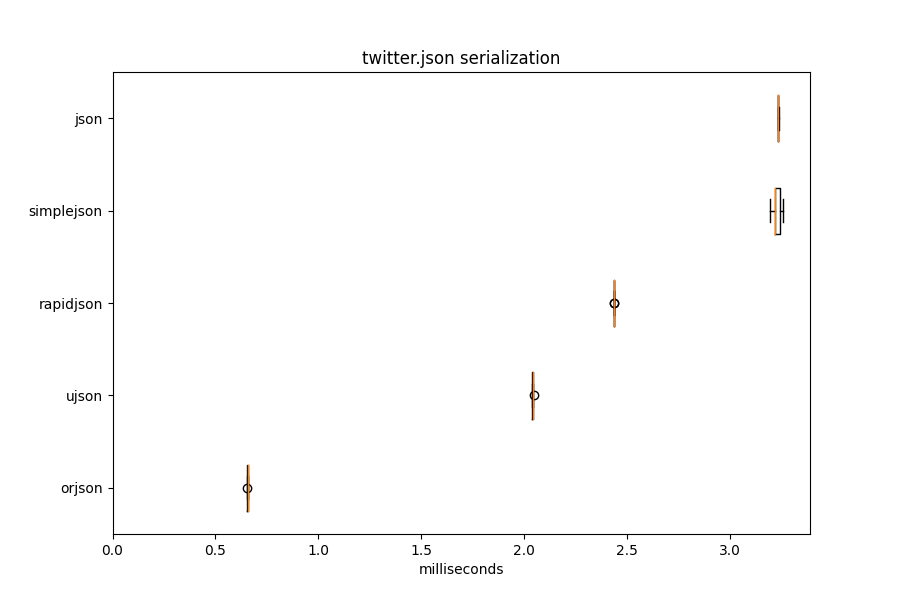
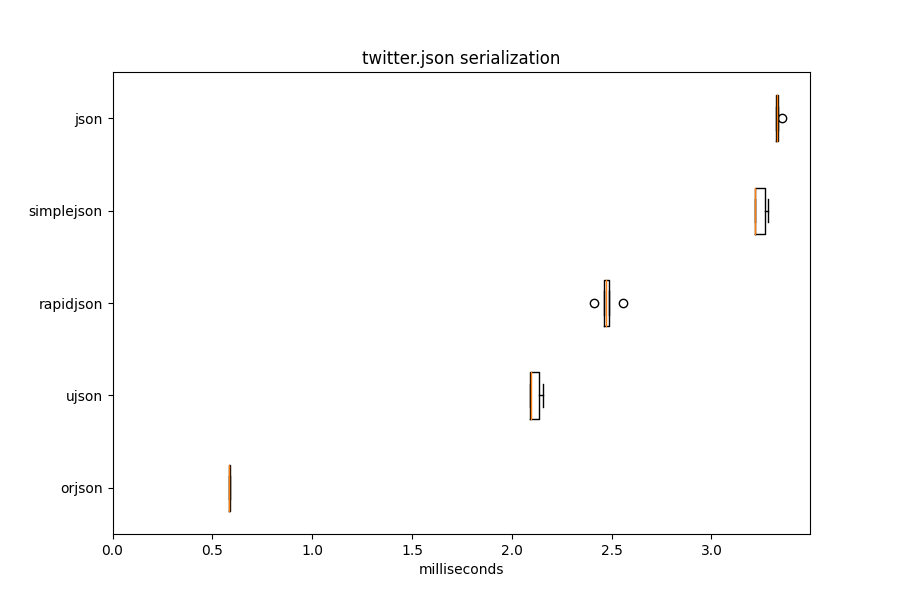
3.0.0

diff --git a/README.md b/README.md
@@ -47,11 +47,12 @@ available in the repository.
 
 1. [Usage](https://github.com/ijl/orjson#usage)
     1. [Install](https://github.com/ijl/orjson#install)
-    1. [Quickstart](https://github.com/ijl/orjson#quickstart)
-    3. [Serialize](https://github.com/ijl/orjson#serialize)
+    2. [Quickstart](https://github.com/ijl/orjson#quickstart)
+    3. [Migrating](https://github.com/ijl/orjson#migrating)
+    4. [Serialize](https://github.com/ijl/orjson#serialize)
         1. [default](https://github.com/ijl/orjson#default)
         2. [option](https://github.com/ijl/orjson#option)
-    4. [Deserialize](https://github.com/ijl/orjson#deserialize)
+    5. [Deserialize](https://github.com/ijl/orjson#deserialize)
 2. [Types](https://github.com/ijl/orjson#types)
     1. [dataclass](https://github.com/ijl/orjson#dataclass)
     2. [datetime](https://github.com/ijl/orjson#datetime)
@@ -106,6 +107,24 @@ b'{"type":"job","created_at":"1970-01-01T00:00:00+00:00","status":"\xf0\x9f\x86\
 {'type': 'job', 'created_at': '1970-01-01T00:00:00+00:00', 'status': '🆗', 'payload': [[1, 2], [3, 4]]}
 ```
 
+### Migrating
+
+orjson version 3 serializes more types than version 2. Subclasses of `str`,
+`int`, `dict`, and `list` are now serialized. This is faster and more similar
+to the standard library. `dataclasses.dataclass` instances are now serialized
+by default and cannot be customized in a `default` function. `uuid.UUID`
+instances are serialized by default. For any type that is now serialized,
+implementations in a `default` function and options enabling them can be
+removed but do not need to be. There was no change in deserialization.
+
+To migrate from the standard library, the largest difference is that
+`orjson.dumps` returns `bytes` and `json.dumps` returns a `str`. Users with
+`dict` objects using non-`str` keys should specify
+`option=orjson.OPT_NON_STR_KEYS`. `sort_keys` is replaced by
+`option=orjson.OPT_SORT_KEYS`. `indent` is replaced by
+`option=orjson.OPT_INDENT_2` and other levels of indentation are not
+supported.
+
 ### Serialize
 
 ```python
@@ -123,7 +142,7 @@ It natively serializes
 `dataclasses.dataclass`, `typing.TypedDict`, `datetime.datetime`,
 `datetime.date`, `datetime.time`, `uuid.UUID`, `numpy.ndarray`, and
 `None` instances. It supports arbitrary types through `default`. It
-serializes subclasses of `str`, `dict`, `lists`, `int`,
+serializes subclasses of `str`, `int`, `dict`, `list`,
 `dataclasses.dataclass`, and `enum.Enum`. It does not serialize subclasses
 of `tuple` to avoid serializing `namedtuple` objects as arrays.
 
@@ -826,84 +845,81 @@ format, containing floats and arrays, indented.
 
 | Library    |   Median latency (milliseconds) |   Operations per second |   Relative (latency) |
 |------------|---------------------------------|-------------------------|----------------------|
-| orjson     |                            0.66 |                  1524.6 |                 1    |
-| ujson      |                            2.04 |                   489.4 |                 3.11 |
-| rapidjson  |                            2.44 |                   410.2 |                 3.71 |
-| simplejson |                            3.22 |                   309.7 |                 4.91 |
-| json       |                            3.24 |                   309.1 |                 4.93 |
+| orjson     |                            0.58 |                  1706.8 |                 1    |
+| ujson      |                            2.09 |                   473   |                 3.58 |
+| rapidjson  |                            2.47 |                   403.4 |                 4.23 |
+| simplejson |                            3.22 |                   308.5 |                 5.51 |
+| json       |                            3.33 |                   300   |                 5.69 |
 
 #### twitter.json deserialization
 
 | Library    |   Median latency (milliseconds) |   Operations per second |   Relative (latency) |
 |------------|---------------------------------|-------------------------|----------------------|
-| orjson     |                            2.46 |                   406.9 |                 1    |
-| ujson      |                            2.9  |                   344.6 |                 1.18 |
-| rapidjson  |                            3.74 |                   267.3 |                 1.52 |
-| simplejson |                            3.64 |                   276.5 |                 1.48 |
-| json       |                            4.21 |                   238.9 |                 1.71 |
+| orjson     |                            2.61 |                   383   |                 1    |
+| ujson      |                            2.83 |                   353   |                 1.09 |
+| rapidjson  |                            3.75 |                   266.8 |                 1.44 |
+| simplejson |                            3.26 |                   306.8 |                 1.25 |
+| json       |                            3.79 |                   263.8 |                 1.45 |
 
 #### github.json serialization
 
 | Library    |   Median latency (milliseconds) |   Operations per second |   Relative (latency) |
 |------------|---------------------------------|-------------------------|----------------------|
-| orjson     |                            0.07 |                 13244.4 |                 1    |
-| ujson      |                            0.2  |                  4869   |                 2.73 |
-| rapidjson  |                            0.27 |                  3768.1 |                 3.54 |
-| simplejson |                            0.44 |                  2290.3 |                 5.83 |
-| json       |                            0.35 |                  2821.8 |                 4.73 |
+| orjson     |                            0.07 |                 14806.2 |                 1    |
+| ujson      |                            0.21 |                  4850   |                 3.05 |
+| rapidjson  |                            0.27 |                  3746.4 |                 3.94 |
+| simplejson |                            0.45 |                  2221.1 |                 6.66 |
+| json       |                            0.36 |                  2749.4 |                 5.38 |
 
 #### github.json deserialization
 
 | Library    |   Median latency (milliseconds) |   Operations per second |   Relative (latency) |
 |------------|---------------------------------|-------------------------|----------------------|
-| orjson     |                            0.21 |                  4811.7 |                 1    |
-| ujson      |                            0.28 |                  3540.1 |                 1.36 |
-| rapidjson  |                            0.31 |                  3207.8 |                 1.5  |
-| simplejson |                            0.29 |                  3443.9 |                 1.4  |
-| json       |                            0.33 |                  3046.7 |                 1.59 |
+| orjson     |                            0.22 |                  4617.1 |                 1    |
+| ujson      |                            0.27 |                  3715.6 |                 1.25 |
+| rapidjson  |                            0.31 |                  3189.1 |                 1.45 |
+| simplejson |                            0.29 |                  3505.5 |                 1.32 |
+| json       |                            0.32 |                  3161.7 |                 1.46 |
 
 #### citm_catalog.json serialization
 
 | Library    |   Median latency (milliseconds) |   Operations per second |   Relative (latency) |
 |------------|---------------------------------|-------------------------|----------------------|
-| orjson     |                            1.02 |                   978.7 |                 1    |
-| ujson      |                            3.48 |                   287.7 |                 3.4  |
-| rapidjson  |                            3.48 |                   287.3 |                 3.4  |
-| simplejson |                           10.85 |                    91.3 |                10.62 |
-| json       |                            6.79 |                   147.4 |                 6.64 |
+| orjson     |                            1    |                  1005   |                 1    |
+| ujson      |                            3.63 |                   275.6 |                 3.64 |
+| rapidjson  |                            3.5  |                   287.1 |                 3.51 |
+| simplejson |                           10.98 |                    89.8 |                11.04 |
+| json       |                            6.95 |                   141.4 |                 6.98 |
 
 #### citm_catalog.json deserialization
 
 | Library    |   Median latency (milliseconds) |   Operations per second |   Relative (latency) |
 |------------|---------------------------------|-------------------------|----------------------|
-| orjson     |                            4.38 |                   228.3 |                 1    |
-| ujson      |                            5.58 |                   179.2 |                 1.27 |
-| rapidjson  |                            7.52 |                   132.2 |                 1.72 |
-| simplejson |                            7.4  |                   135.2 |                 1.69 |
-| json       |                            7.88 |                   126.9 |                 1.8  |
+| orjson     |                            4.48 |                   223.1 |                 1    |
+| ujson      |                            5.57 |                   179.4 |                 1.24 |
+| rapidjson  |                            7.52 |                   132.4 |                 1.68 |
+| simplejson |                            7.41 |                   134.6 |                 1.65 |
+| json       |                            7.92 |                   126.2 |                 1.77 |
 
 #### canada.json serialization
 
 | Library    |   Median latency (milliseconds) |   Operations per second |   Relative (latency) |
 |------------|---------------------------------|-------------------------|----------------------|
-| orjson     |                            4.69 |                   209.7 |                 1    |
-| ujson      |                           20.03 |                    49.9 |                 4.27 |
-| rapidjson  |                           61.8  |                    16.2 |                13.17 |
-| simplejson |                           79.63 |                    12.6 |                16.96 |
-| json       |                           62.73 |                    15.9 |                13.36 |
+| orjson     |                            4.61 |                   217.1 |                 1    |
+| ujson      |                           19.2  |                    53.2 |                 4.17 |
+| rapidjson  |                           60.74 |                    16.4 |                13.19 |
+| simplejson |                           78.13 |                    12.7 |                16.97 |
+| json       |                           62.48 |                    16   |                13.57 |
 
 #### canada.json deserialization
 
 | Library    |   Median latency (milliseconds) |   Operations per second |   Relative (latency) |
 |------------|---------------------------------|-------------------------|----------------------|
-| orjson     |                           10.14 |                    98.5 |                 1    |
-| ujson      |                           15.58 |                    64.4 |                 1.54 |
-| rapidjson  |                           37.3  |                    26.8 |                 3.68 |
-| simplejson |                           36.4  |                    27.5 |                 3.59 |
-| json       |                           37.24 |                    27.2 |                 3.67 |
-
-If a row is blank, the library did not serialize and deserialize the fixture without
-modifying it, e.g., returning different values for floating point numbers.
+| orjson     |                            9.95 |                   100.9 |                 1    |
+| ujson      |                           15.73 |                    63.7 |                 1.58 |
+| rapidjson  |                           37.59 |                    26.6 |                 3.78 |
+| simplejson |                           36.12 |                    27.7 |                 3.63 |
+| json       |                           37.66 |                    26.6 |                 3.79 |
 
 ### Memory
 
@@ -918,46 +934,46 @@ calling `loads()` on the fixture.
 
 | Library    |   import, read() RSS (MiB) |   loads() increase in RSS (MiB) |
 |------------|----------------------------|---------------------------------|
-| orjson     |                       13.6 |                             2.5 |
-| ujson      |                       14.1 |                             4.1 |
-| rapidjson  |                       14.7 |                             6.4 |
-| simplejson |                       13.5 |                             2.5 |
-| json       |                       13   |                             2.3 |
+| orjson     |                       13.5 |                             2.5 |
+| ujson      |                       14   |                             4.1 |
+| rapidjson  |                       14.7 |                             6.5 |
+| simplejson |                       13.2 |                             2.5 |
+| json       |                       12.9 |                             2.3 |
 
 #### github.json
 
 | Library    |   import, read() RSS (MiB) |   loads() increase in RSS (MiB) |
 |------------|----------------------------|---------------------------------|
 | orjson     |                       13.1 |                             0.3 |
-| ujson      |                       13.7 |                             0.3 |
+| ujson      |                       13.5 |                             0.3 |
 | rapidjson  |                       14   |                             0.7 |
-| simplejson |                       12.7 |                             0.3 |
+| simplejson |                       12.6 |                             0.3 |
 | json       |                       12.3 |                             0.1 |
 
 #### citm_catalog.json
 
 | Library    |   import, read() RSS (MiB) |   loads() increase in RSS (MiB) |
 |------------|----------------------------|---------------------------------|
-| orjson     |                       15   |                             7.7 |
-| ujson      |                       15.4 |                            11.1 |
-| rapidjson  |                       15.8 |                            29.4 |
-| simplejson |                       14.5 |                            30.7 |
-| json       |                       14.2 |                            27.2 |
+| orjson     |                       14.6 |                             7.9 |
+| ujson      |                       15.1 |                            11.1 |
+| rapidjson  |                       15.8 |                            36   |
+| simplejson |                       14.3 |                            27.4 |
+| json       |                       14   |                            27.2 |
 
 #### canada.json
 
 | Library    |   import, read() RSS (MiB) |   loads() increase in RSS (MiB) |
 |------------|----------------------------|---------------------------------|
-| orjson     |                       17.3 |                            15.7 |
-| ujson      |                       17.7 |                            17.4 |
+| orjson     |                       17.1 |                            15.7 |
+| ujson      |                       17.6 |                            17.4 |
 | rapidjson  |                       18.3 |                            17.9 |
-| simplejson |                       17.1 |                            19.6 |
-| json       |                       16.8 |                            19.4 |
+| simplejson |                       16.9 |                            19.6 |
+| json       |                       16.5 |                            19.4 |
 
 ### Reproducing
 
 The above was measured using Python 3.8.2 on Linux (x86_64) with
-orjson 2.6.4, ujson 2.0.3, python-rapidson 0.9.1, and simplejson 3.17.0.
+orjson 3.0.0, ujson 2.0.3, python-rapidson 0.9.1, and simplejson 3.17.0.
 
 The latency results can be reproduced using the `pybench` and `graph`
 scripts. The memory results can be reproduced using the `pymem` script.

diff --git a/CHANGELOG.md b/CHANGELOG.md
@@ -1,5 +1,17 @@
 # Changelog
 
+## 3.0.0 - 2020-05-01
+
+### Added
+
+- `orjson.dumps()` serializes subclasses of `str`, `int`, `list`, and `dict`.
+
+### Changed
+
+- `orjson.dumps()` serializes `dataclasses.dataclass` and `uuid.UUID`
+instances by default. The options `OPT_SERIALIZE_DATACLASS` and
+`OPT_SERIALIZE_UUID` can still be specified but have no effect.
+
 ## 2.6.8 - 2020-04-30
 
 ### Changed
